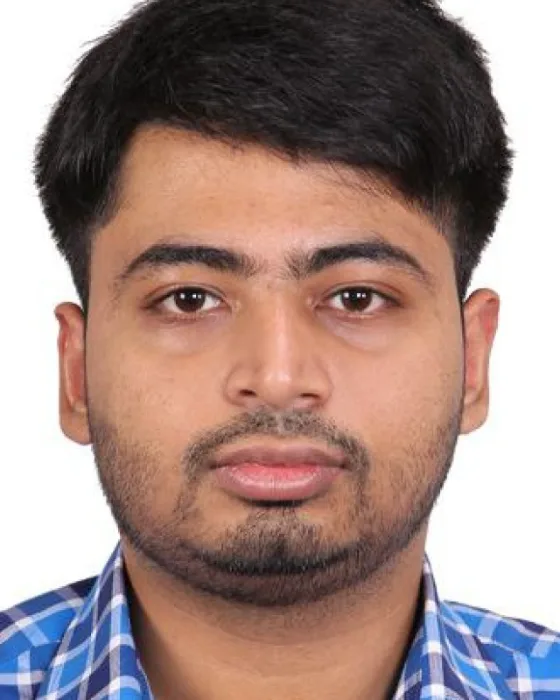
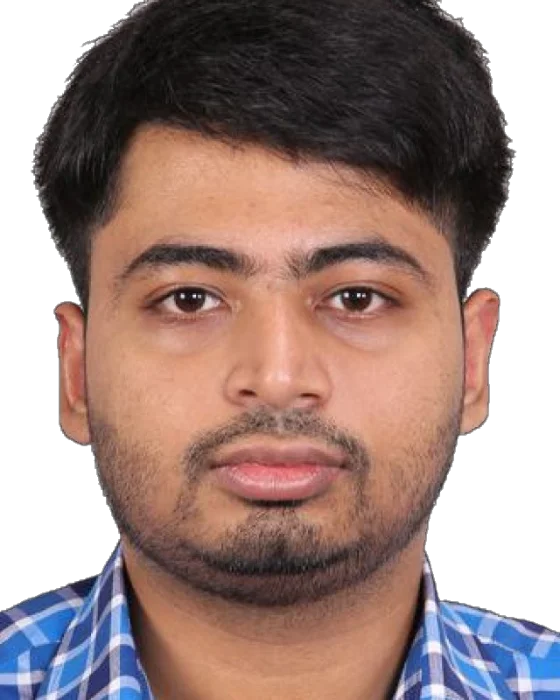
Hero photo: remove white background, dark gradient frame

diff --git a/index.html b/index.html
@@ -333,9 +333,9 @@ footer .kicker{font-family:'JetBrains Mono',monospace;font-size:12px;text-transf
 }
 .hero>*{position:relative;z-index:1}
 .hero>.sticker{position:absolute;z-index:5}
-.hero>.hero-photo{position:absolute;z-index:2;right:clamp(20px,5vw,64px);top:clamp(40px,8vh,90px);width:clamp(240px,24vw,360px);height:auto;aspect-ratio:4/5;object-fit:cover;border-radius:22px;border:1px solid rgba(242,239,230,.18);box-shadow:0 30px 80px rgba(0,0,0,.5);background:#151515}
+.hero>.hero-photo{position:absolute;z-index:2;right:clamp(20px,5vw,64px);top:clamp(40px,8vh,90px);width:clamp(240px,24vw,360px);height:auto;aspect-ratio:4/5;object-fit:cover;border-radius:22px;border:1px solid rgba(242,239,230,.18);box-shadow:0 30px 80px rgba(0,0,0,.5);background:radial-gradient(circle at 50% 30%,rgba(200,247,60,.22),transparent 62%),radial-gradient(circle at 85% 95%,rgba(255,92,26,.28),transparent 55%),#161616}
 @media(min-width:1200px){.hero>.sticker{top:calc(clamp(40px,8vh,90px) + clamp(240px,24vw,360px)*1.25 - 96px);right:calc(clamp(20px,5vw,64px) + clamp(240px,24vw,360px) - 72px)}}
-.hero>.hero-avatar{display:none;width:104px;height:104px;border-radius:50%;object-fit:cover;margin:0 0 24px;border:2px solid var(--acid);background:#151515}
+.hero>.hero-avatar{display:none;width:104px;height:104px;border-radius:50%;object-fit:cover;margin:0 0 24px;border:2px solid var(--acid);background:radial-gradient(circle at 50% 30%,rgba(200,247,60,.22),transparent 62%),radial-gradient(circle at 85% 95%,rgba(255,92,26,.28),transparent 55%),#161616}
 @media(max-width:1199px){.hero>.hero-photo{display:none}.hero>.hero-avatar{display:block}}
 
 .card{transform-style:preserve-3d}
